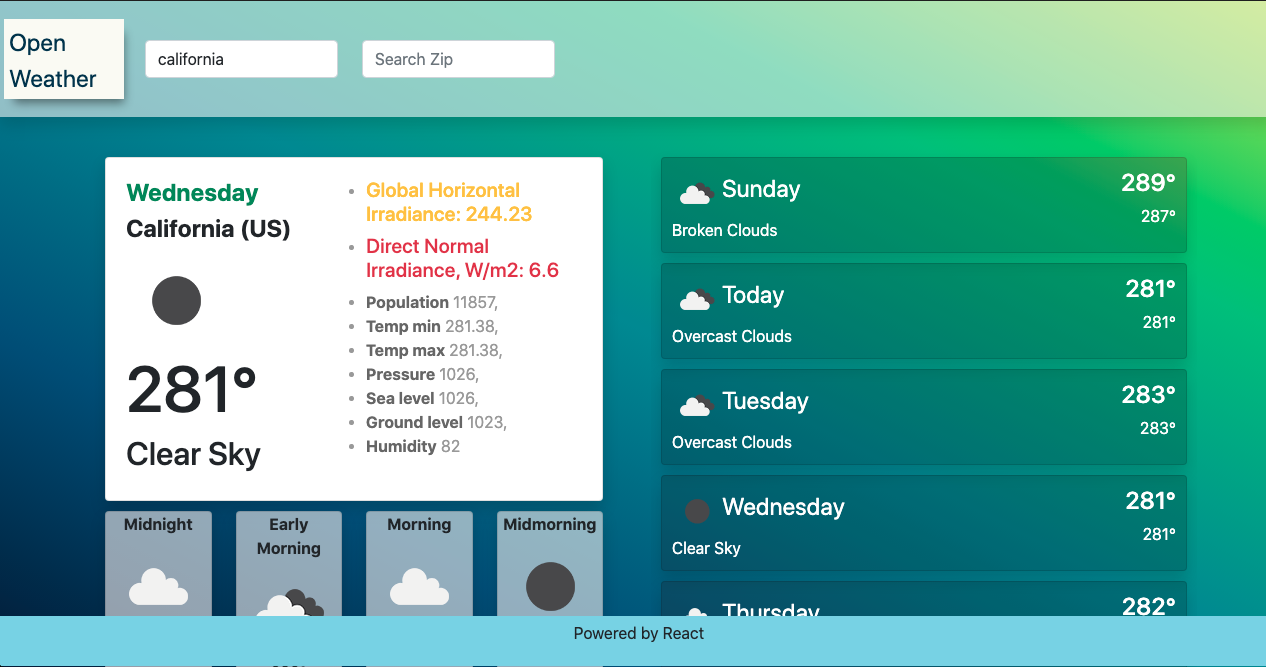
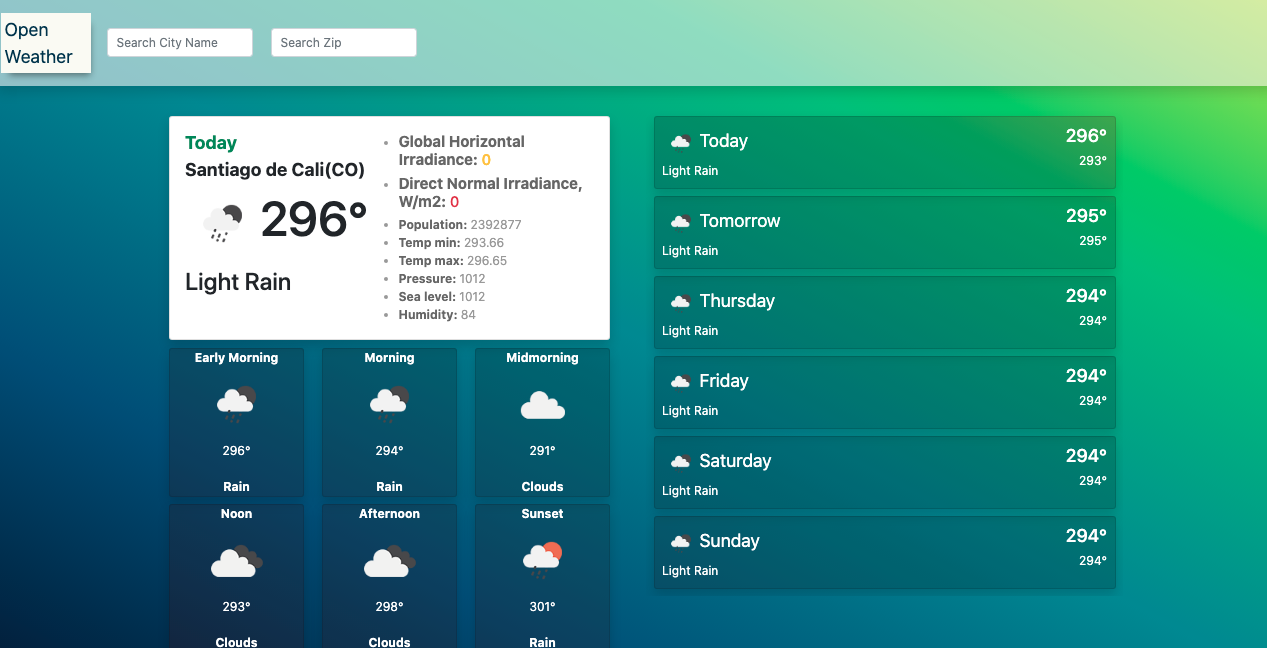
A bit of polishing the application styles

diff --git a/react/src/components/day/DayHours.jsx b/react/src/components/day/DayHours.jsx
@@ -42,12 +42,12 @@ class DayHours extends React.Component {
 
       return (
         <div key={idx} className="col-sm m-b-10">
-          <Card className="m-w-150 text-center shadow alpha">
+          <Card className="m-w-150 text-center shadow alpha-dark">
             <span className="bold">{timeDef}</span>
             <Icon icon={icon} className="img-center big-icon" />
             <Degrees degrees={temp} />
             <br />
-            <span>{main}</span>
+            <span className="bold">{main}</span>
           </Card>
         </div>
       );
